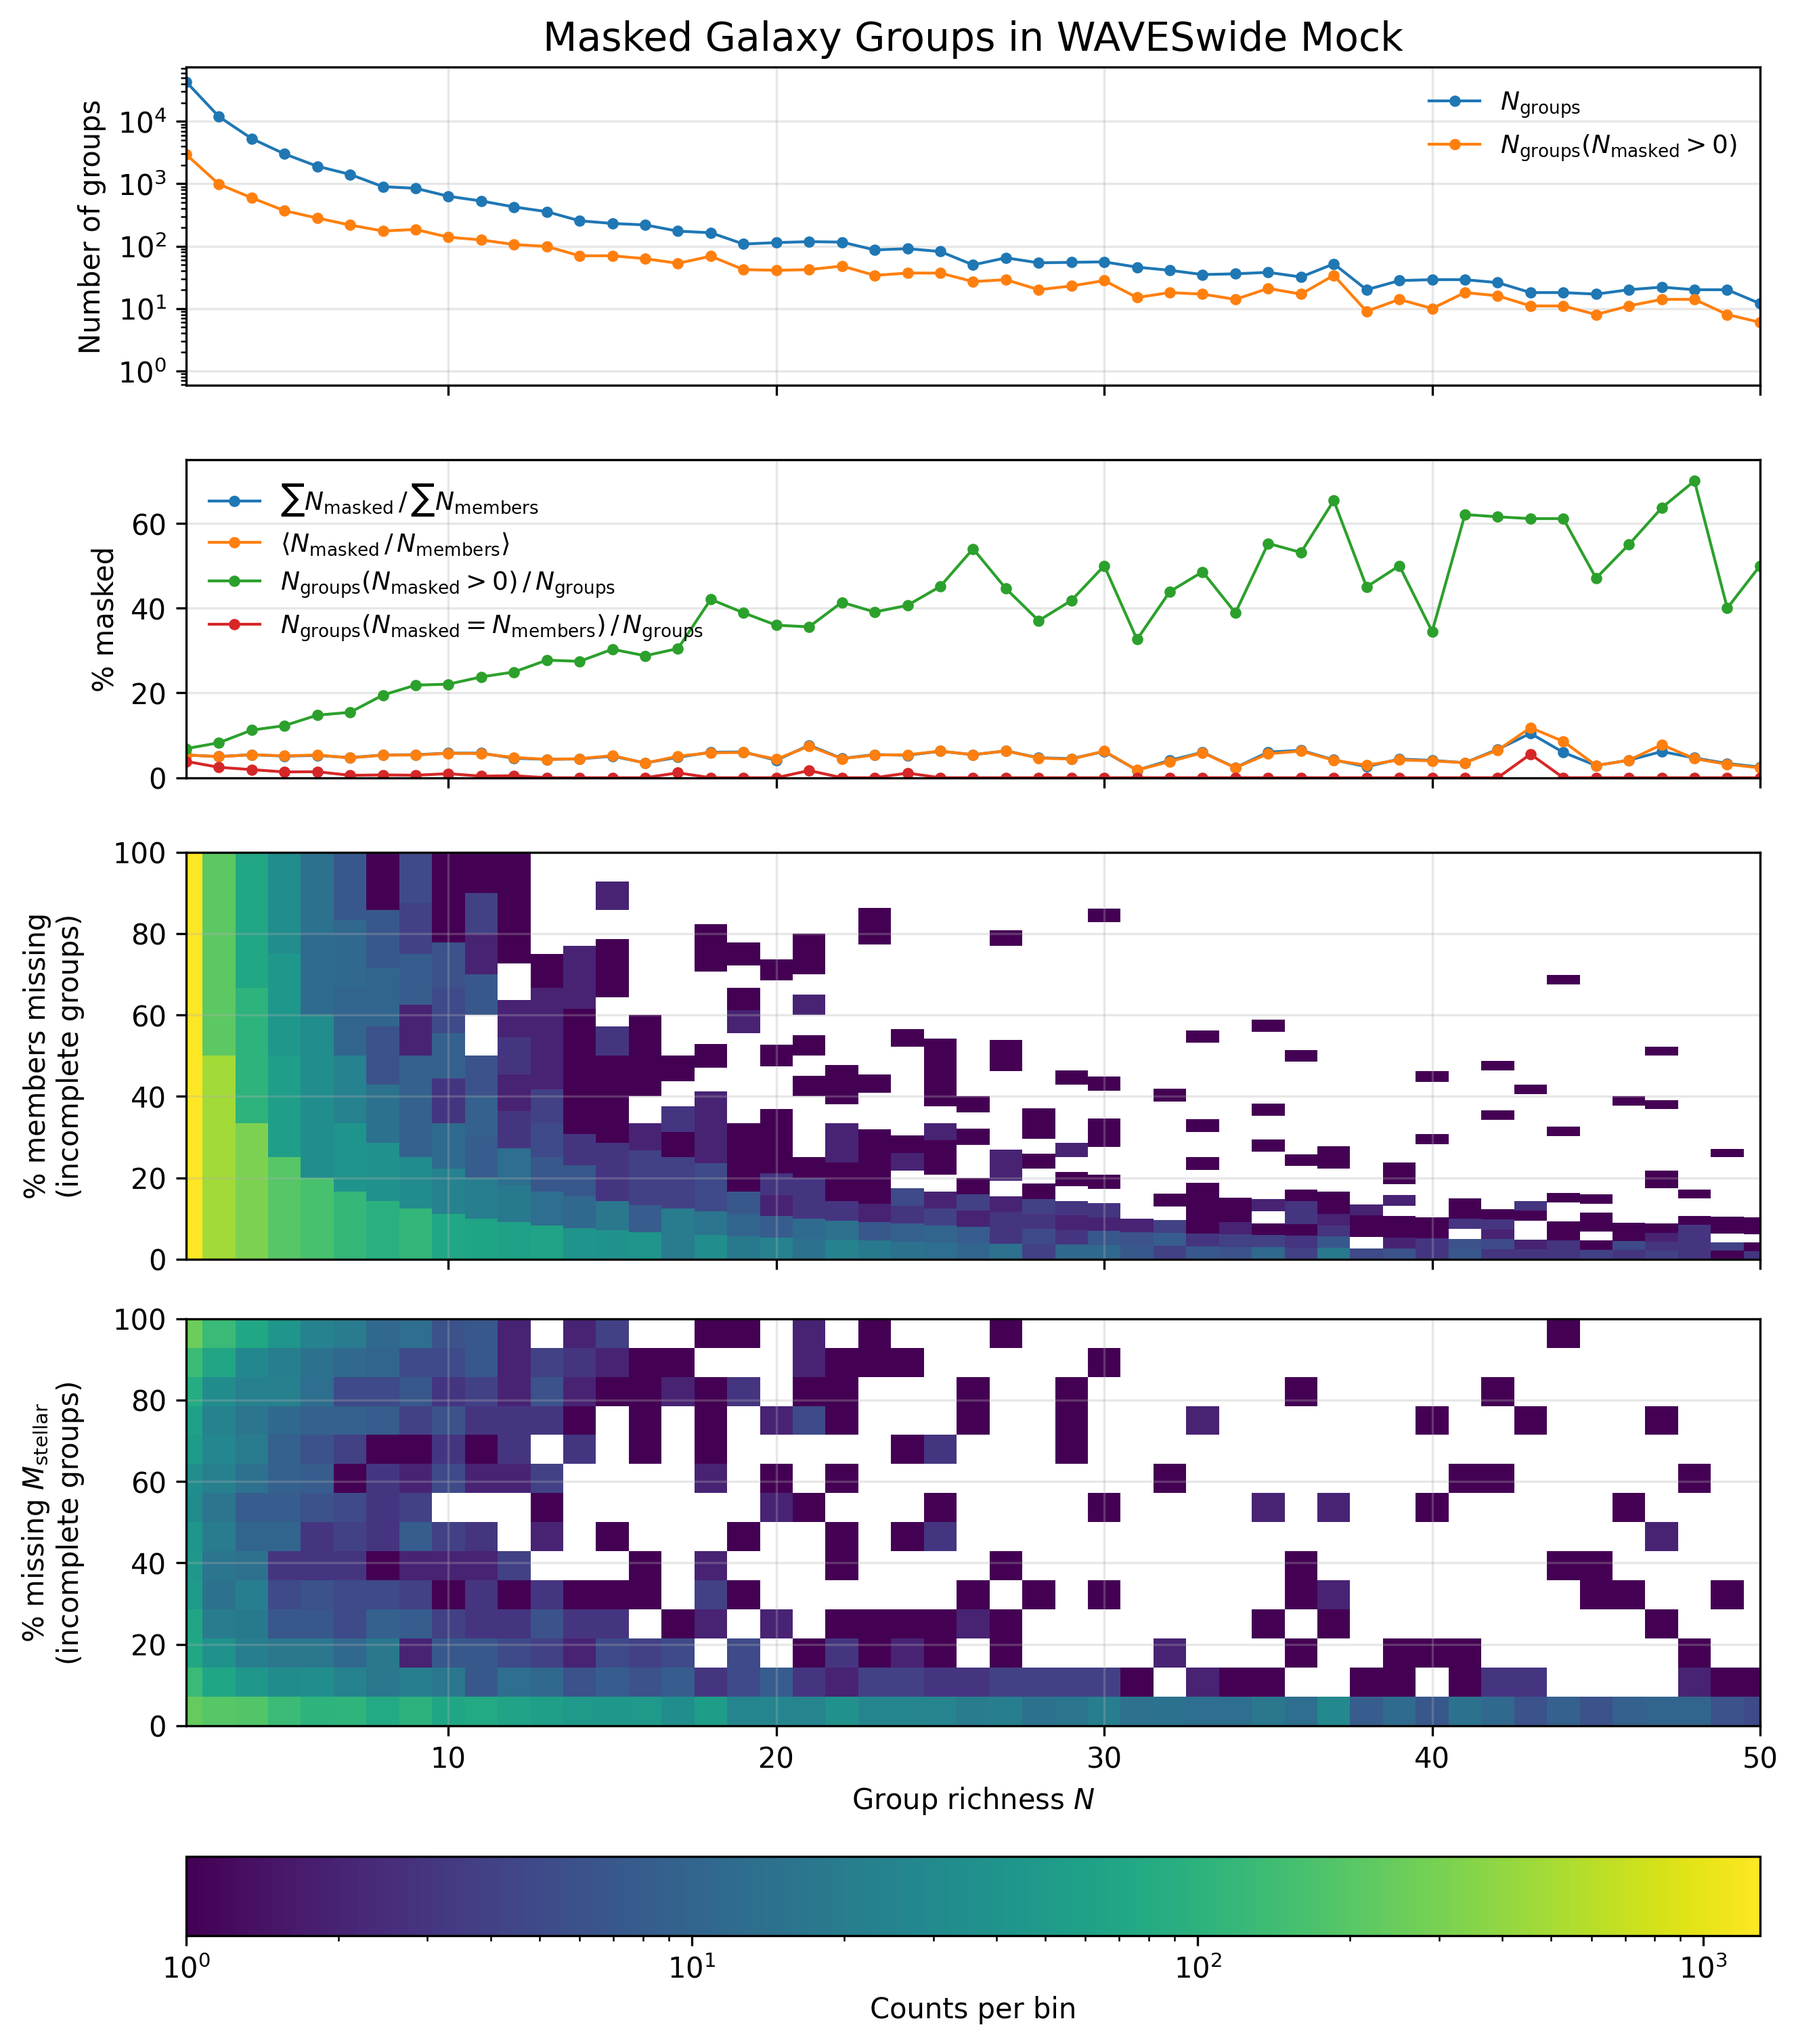
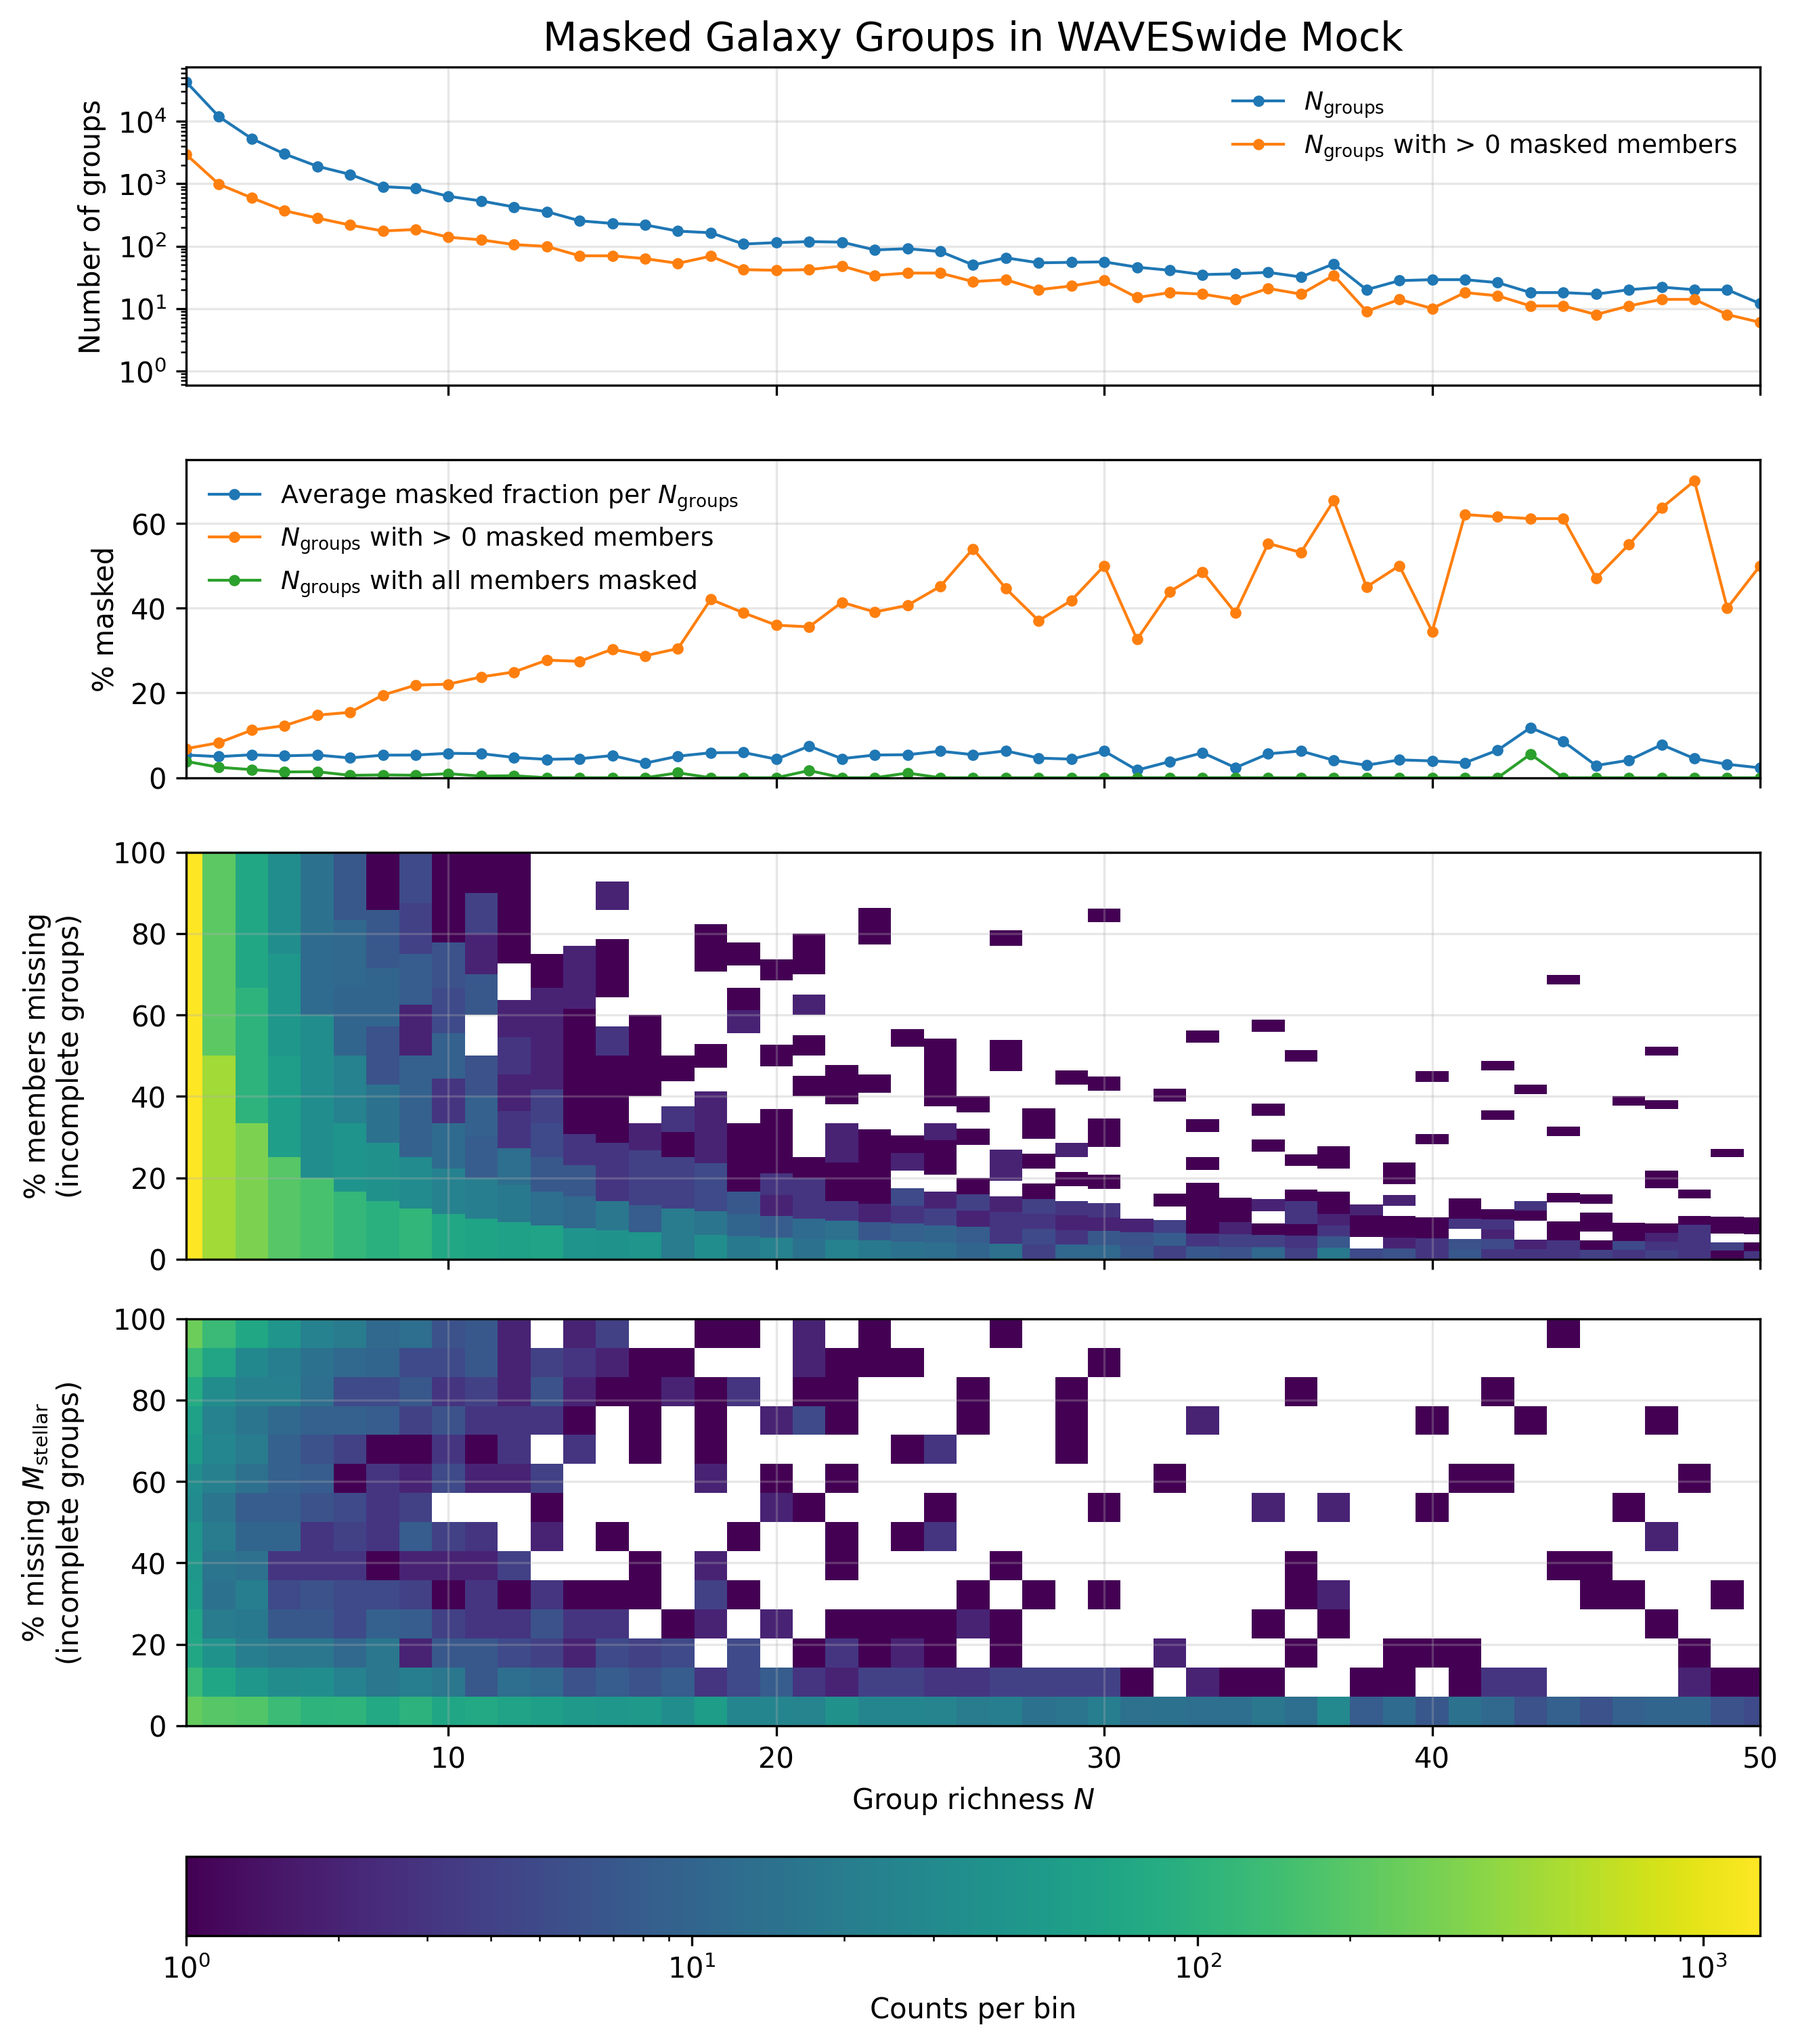
better fig2 legend

diff --git a/src/masked_stats_plots.py b/src/masked_stats_plots.py
@@ -139,7 +139,7 @@ ax0.plot(
     marker="o",
     ms=3,
     lw=1,
-    label=r"$N_{\rm groups}(N_{\rm masked}>0)$"
+    label=r"$N_{\rm groups}$ with > 0 masked members"
 )
 
 ax0.set_ylabel("Number of groups")
@@ -151,21 +151,21 @@ ax0.legend(frameon=False, fontsize=9)
 # -------------------------------------
 # Panel 2: % masked vs richness
 # -------------------------------------
-ax1.plot(
-    ratio_of_sums_vs_N.index,
-    ratio_of_sums_vs_N.values * 100.0,
-    marker="o",
-    ms=3,
-    lw=1,
-    label=r"$\sum N_{\rm masked} \,/\, \sum N_{\rm members}$"
-)
+#ax1.plot(
+#    ratio_of_sums_vs_N.index,
+#    ratio_of_sums_vs_N.values * 100.0,
+#    marker="o",
+#    ms=3,
+#    lw=1,
+#    label=r"$\sum N_{\rm gals masked} \,/\, \sum N_{\rm gals}$"
+#)
 ax1.plot(
     mean_frac_vs_N.index,
     mean_frac_vs_N.values * 100.0,
     marker="o",
     ms=3,
     lw=1,
-    label=r"$\left\langle N_{\rm masked} \,/\, N_{\rm members} \right\rangle$"
+    label=r"Average masked fraction per $N_{\rm groups}$"
 )
 ax1.plot(
     pct_groups_with_mask_vs_N.index,
@@ -173,7 +173,7 @@ ax1.plot(
     marker="o",
     ms=3,
     lw=1,
-    label=r"$N_{\rm groups}(N_{\rm masked}>0) \,/\, N_{\rm groups}$"
+    label=r"$N_{\rm groups}$ with > 0 masked members"
 )
 
 ax1.plot(
@@ -182,7 +182,7 @@ ax1.plot(
     marker="o",
     ms=3,
     lw=1,
-    label=r"$N_{\rm groups}(N_{\rm masked}=N_{\rm members}) \,/\, N_{\rm groups}$"
+    label=r"$N_{\rm groups}$ with all members masked"
 )
 
 ax1.set_ylabel("% masked")
